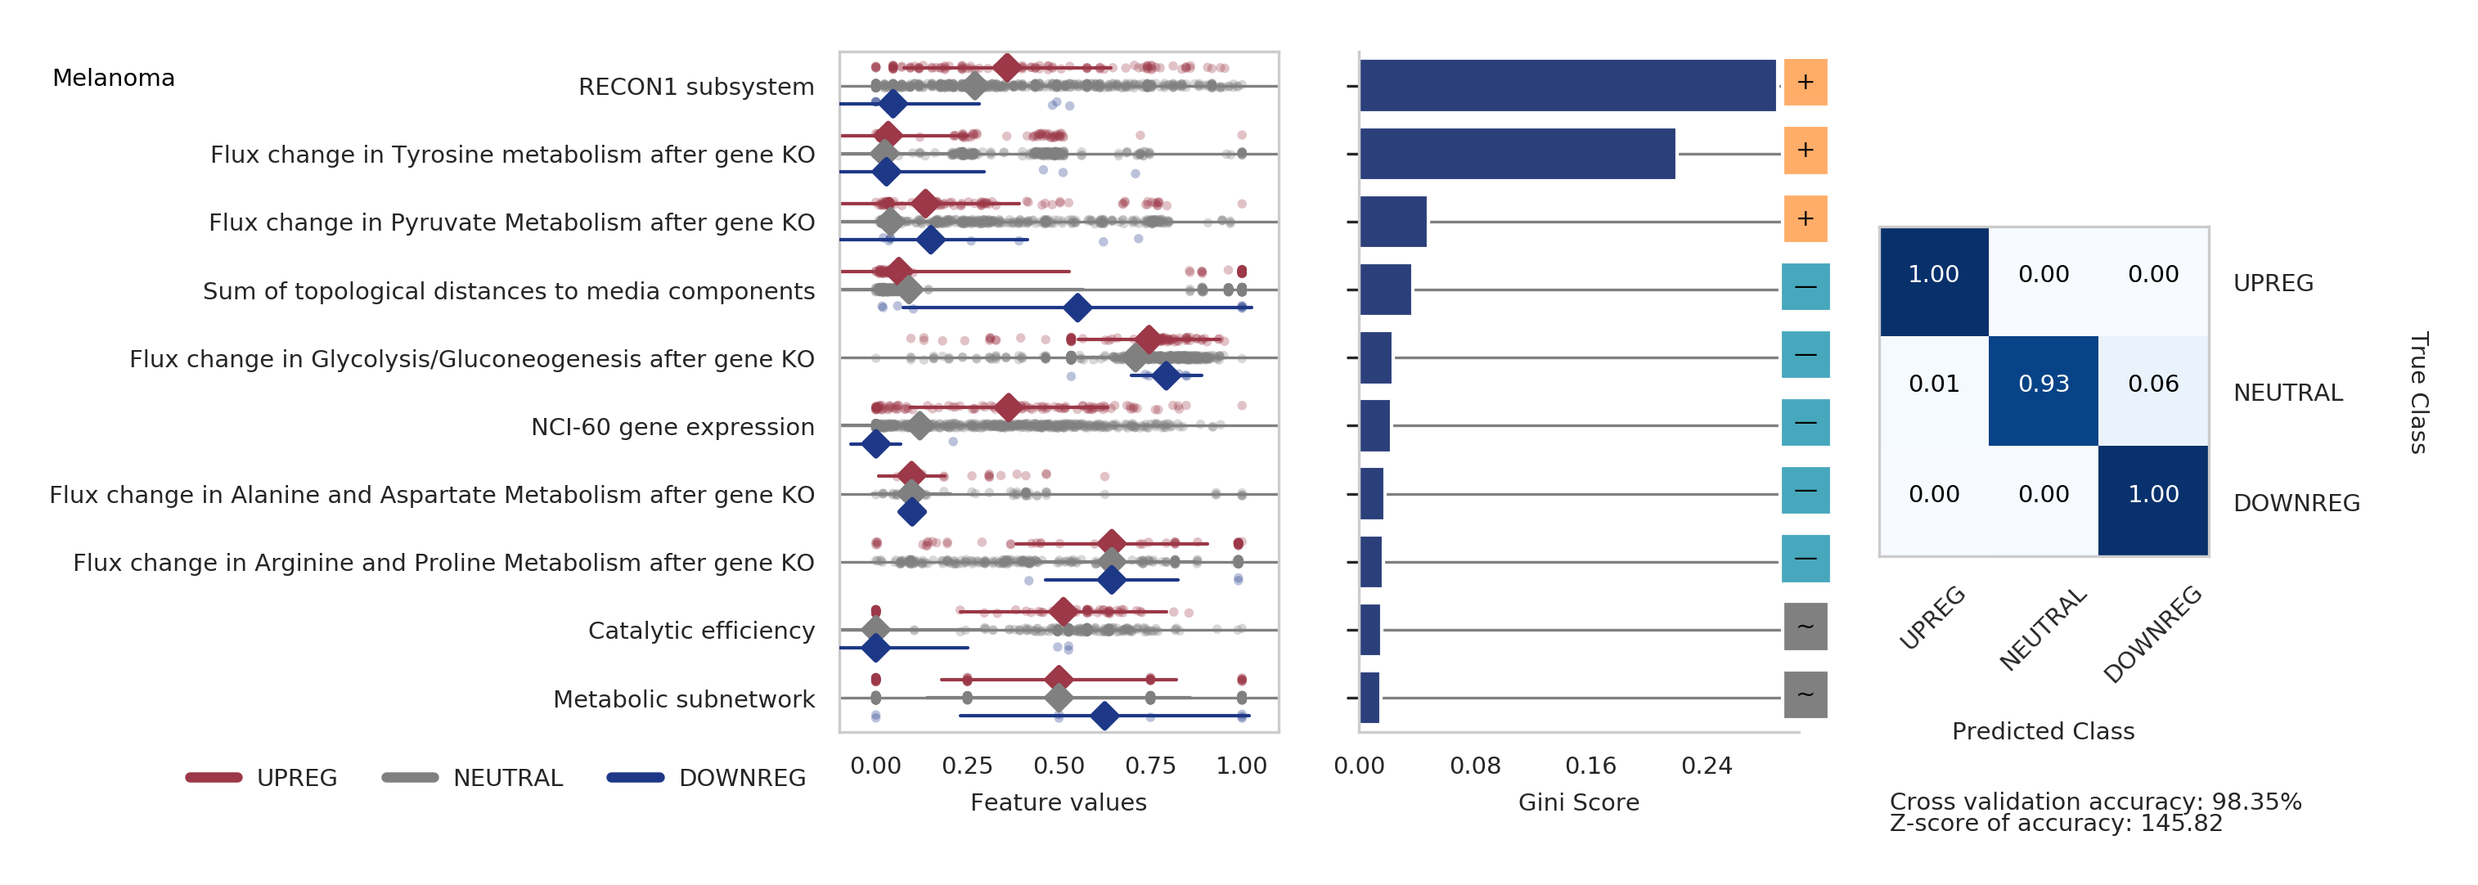
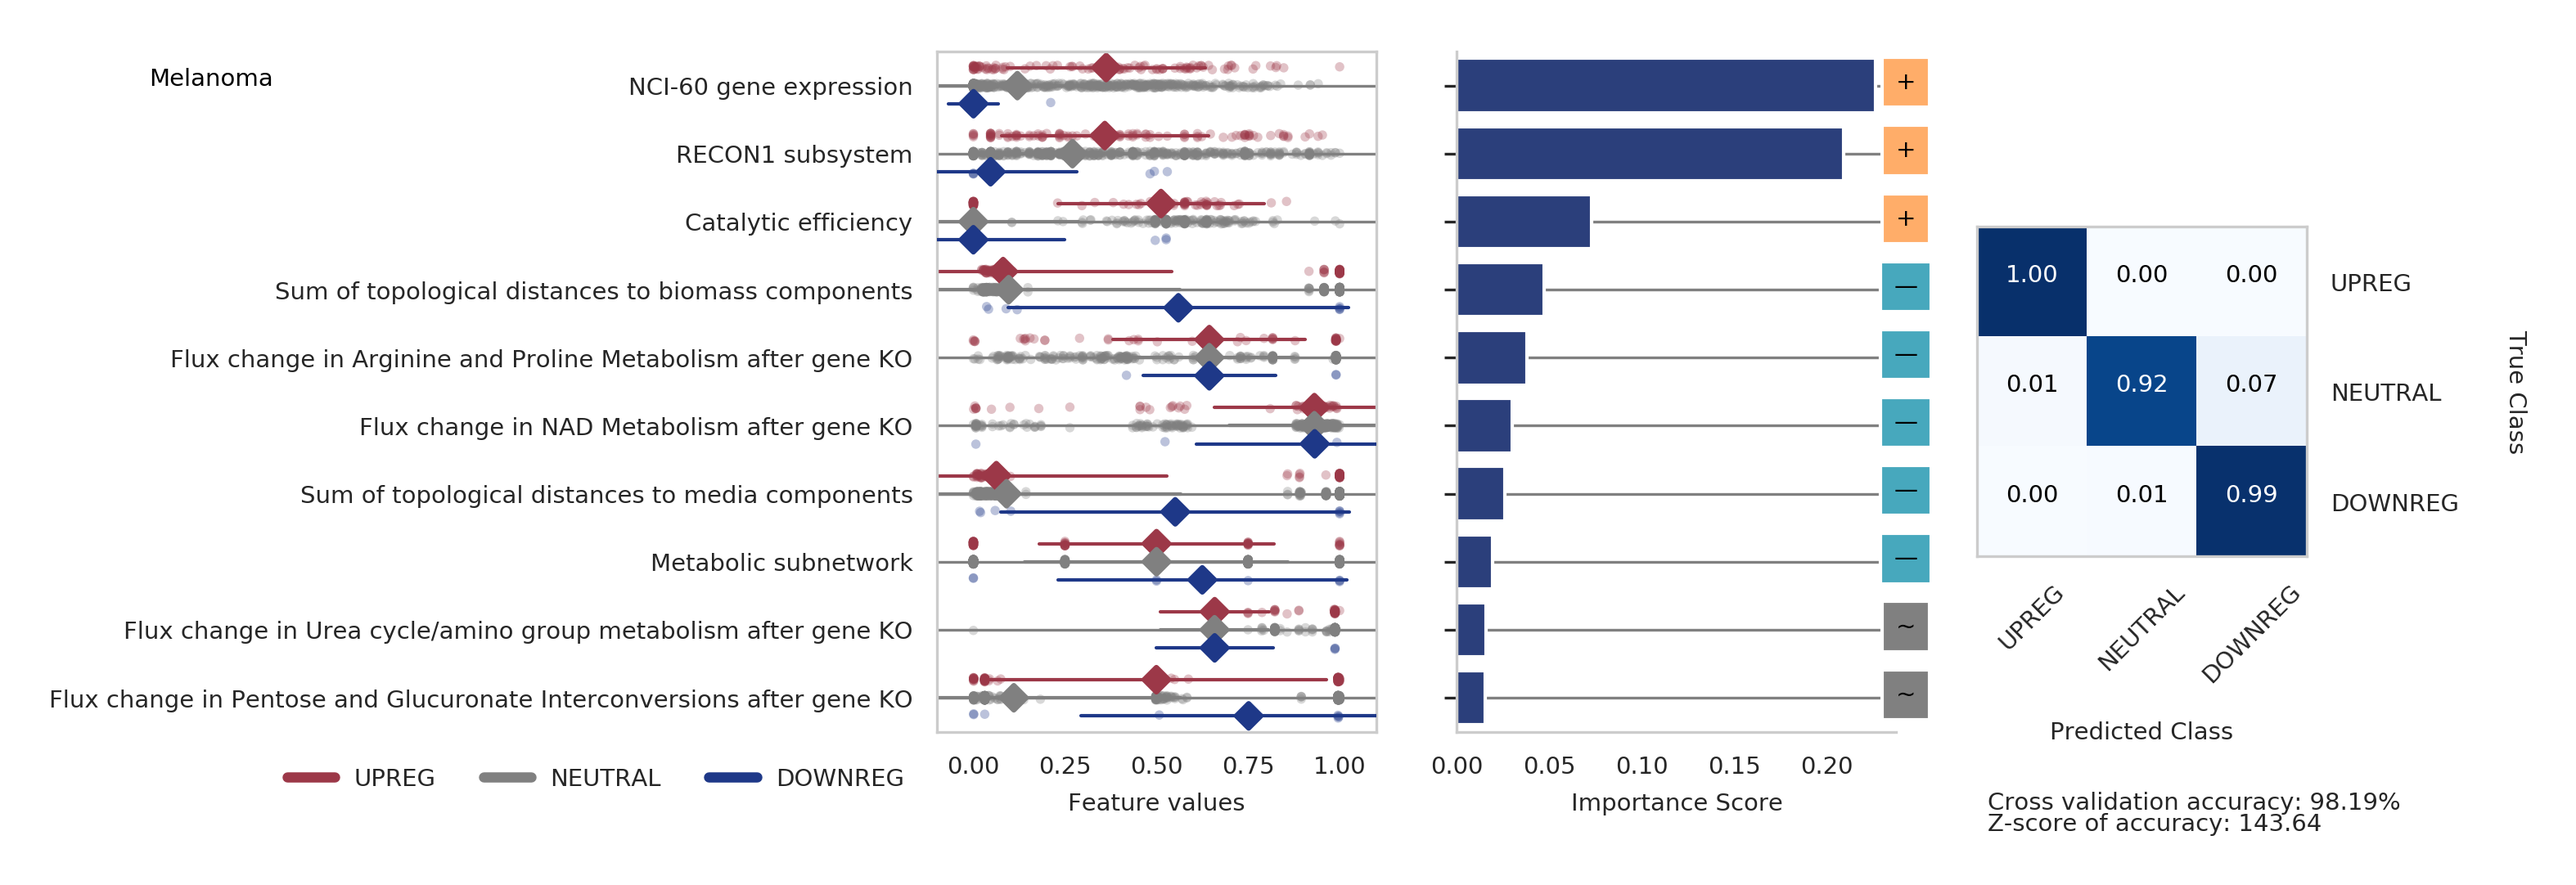
fixed bug in code - accurately shows feature importance positions

diff --git a/metoncofit/metoncofit.py b/metoncofit/metoncofit.py
@@ -20,16 +20,13 @@ import pandas as pd
 from openpyxl import load_workbook
 
 # Create data structures that will be used in the analysis
-df, df1, header, canc, targ, data, classes, orig_data, orig_classes, excl_targ = process.preprocess(
-    datapath='./../data/min/', fil=sys.argv[1], targ=sys.argv[2], exclude=sys.argv[3])
+df, df1, header, canc, targ, data, classes, orig_data, orig_classes, excl_targ = process.preprocess(datapath='./../data/median/', fil=sys.argv[1], targ=sys.argv[2], exclude=sys.argv[3])
 
 # Random Forest Classifier, prediction, and hold out accuracy
-rfc, rfc_pred, mean_acc = random_forest.random_forest(
-    canc, targ, data, classes, orig_data, orig_classes)
+rfc, rfc_pred, mean_acc = random_forest.random_forest(canc, targ, data, classes, orig_data, orig_classes)
 
 # Model performance and statistical measures. THIS FUNCTION IS ALSO NECESSARY TO GENERATE THE FIGURES.
-cm, pvalue, zscore, cv_score, summary = validator.summary_statistics(
-    rfc, rfc_pred, data, classes, orig_classes, orig_data, targ, excl_targ, mean_acc, canc)
+cm, pvalue, zscore, cv_score, summary = validator.summary_statistics(rfc, rfc_pred, data, classes, orig_classes, orig_data, targ, excl_targ, mean_acc, canc)
 
 # Model comparison with Auslander et al., 2016. Use only gene expression in these predictions for a true comparison.
 #df2 = df1.copy(deep=True)
@@ -47,12 +44,9 @@ cm, pvalue, zscore, cv_score, summary = validator.summary_statistics(
 #save.make_excel(summary, compare_models, loco, lofo, filename='SI.xlsx')
 
 # Create data structures that will only be used while making the figures
-up_df, neut_df, down_df, up_genes, neut_genes, down_genes, one_gene_df, one_gene_class = process.one_gene_only(
-    df1, targ)
+up_df, neut_df, down_df, up_genes, neut_genes, down_genes, one_gene_df, one_gene_class = process.one_gene_only(df1, targ)
 
-importance, up, neut, down, final_df = process.plotting_preprocess(
-    up_df, neut_df, down_df, up_genes, neut_genes, down_genes, one_gene_df, rfc, header, targ, orig_classes, rfc_pred, one_gene_class, canc)
+importance, up, neut, down, final_df = process.plotting_preprocess(up_df, neut_df, down_df, up_genes, neut_genes, down_genes, one_gene_df, rfc, header, targ, orig_classes, rfc_pred, one_gene_class, canc)
 
 # Make the figures
-visualizations.make_figure(final_df, importance, cm, orig_classes, rfc_pred, cv_score,
-                           pvalue, zscore, canc, targ, normalize=True, savepath=False, filename=False)
+visualizations.make_figure(final_df, importance, cm, orig_classes, rfc_pred, cv_score,pvalue, zscore, canc, targ, normalize=True, savepath=False, filename=False)

diff --git a/metoncofit/visualizations.py b/metoncofit/visualizations.py
@@ -393,17 +393,16 @@ def make_figure(df1, importance, cm, orig_classes, rfc_pred, cv_acc, pval, zscor
     correl = []
     for value in pearson:
         value = float(value)
-        if value >= 0.50:
+        if value >= 0.60:
             correl.append(str('+'))
-        elif value <= -0.50:
+        elif value <= -0.60:
             correl.append(u"\u2014")
         else:
             correl.append('~')
 
     # Main figure parameters and arguments
     sns.set_style("whitegrid")
-    figure, axarr = plt.subplots(nrows=1, ncols=3, figsize=(7.2, 3.6), gridspec_kw={
-                                 'width_ratios': [1.0, 1.0, 0.75], 'wspace': 0.2}, sharex=False)
+    figure, axarr = plt.subplots(nrows=1, ncols=3, figsize=(7.2, 3.6), gridspec_kw={'width_ratios': [1.0, 1.0, 0.75], 'wspace': 0.2}, sharex=False)
 
     # Legend parameters for the dotplot
     from matplotlib.lines import Line2D
@@ -416,11 +415,11 @@ def make_figure(df1, importance, cm, orig_classes, rfc_pred, cv_acc, pval, zscor
 
     # Show each observation in scatter plot
     sns.set_style("whitegrid")
-    sns.stripplot(x="value", y="feature", hue="type", palette=class_col, data=df1, hue_order=targ_labels, dodge=True, jitter=True, alpha=0.3, zorder=1, size=2.75, ax=axarr[0])
+    sns.stripplot(x="value", y="feature", hue="type", palette=class_col, data=df1, order=importance['Feature'], hue_order=targ_labels, dodge=True, jitter=True, alpha=0.3, zorder=1, size=2.75, ax=axarr[0])
 
     from numpy import median
     # Show the conditional mean and standard deviation
-    sns.pointplot(x="value", y="feature", hue="type", palette=class_col, data=df1, hue_order=targ_labels, dodge=0.532, join=False, markers="D", scale=0.75, ci="sd", estimator=median, errwidth=1.00, ax=axarr[0])
+    sns.pointplot(x="value", y="feature", hue="type", palette=class_col, data=df1, order=importance['Feature'], hue_order=targ_labels, dodge=0.532, join=False, markers="D", scale=0.75, ci="sd", estimator=median, errwidth=1.00, ax=axarr[0])
 
     # Dotplot specific handles
     handles, labels = axarr[0].get_legend_handles_labels()
@@ -448,7 +447,7 @@ def make_figure(df1, importance, cm, orig_classes, rfc_pred, cv_acc, pval, zscor
     axarr[1].tick_params(axis='x', which='both', top=False, labelsize=7)
     axarr[1].tick_params(axis='y', which='both', right=False,
                          left=True, labelleft=False, labelsize=7)
-    axarr[1].set_xlabel("Gini Score", fontsize=7)
+    axarr[1].set_xlabel("Importance Score", fontsize=7)
     axarr[1].set_ylabel('')
     axarr[1].grid(color='gray', axis='y')
     axarr[1].xaxis.grid(False)

diff --git a/metoncofit/process.py b/metoncofit/process.py
@@ -13,6 +13,7 @@ import re
 
 import numpy as np
 import pandas as pd
+from scipy.stats import pearsonr
 
 from sklearn import preprocessing
 from sklearn.preprocessing import RobustScaler
@@ -76,6 +77,7 @@ def preprocess(datapath='str', fil=sys.argv[1], targ=sys.argv[2], exclude=sys.ar
                            sep='\t', names=['Original', 'New'])
     names = dict([(i, nam)
                   for i, nam in zip(df_names['Original'], df_names['New'])])
+
     df = pd.read_csv(datapath+fil, index_col=None)
     df = df.rename(columns=names)
     df = df.set_index(['Genes', 'Cell Line'])
@@ -183,10 +185,10 @@ def plotting_preprocess(up_df, neut_df, down_df, up_genes, neut_genes, down_gene
         v2 = neut_df[col].median()
         v3 = down_df[col].median()
 
-        correl = np.corrcoef([v1, v2, v3], [1.0, 0.0, -1.0])
+        correl = pearsonr([v1, v2, v3], [1.0, 0.0, -1.0])
 
-        if(np.isnan(correl[0][1]) != True):
-            column_squigly[col] = correl[0][1]
+        if(np.isnan(correl[0]) != True):
+            column_squigly[col] = correl[0]
         else:
             column_squigly[col] = 0.0
 
